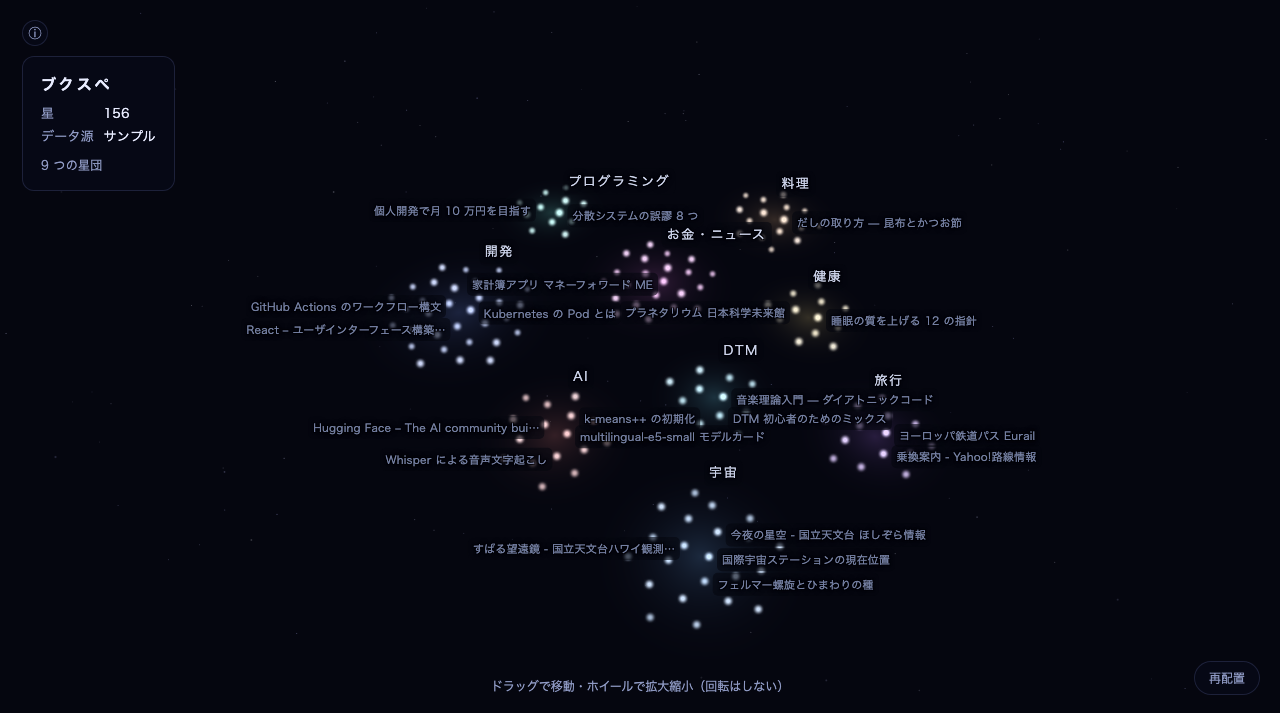
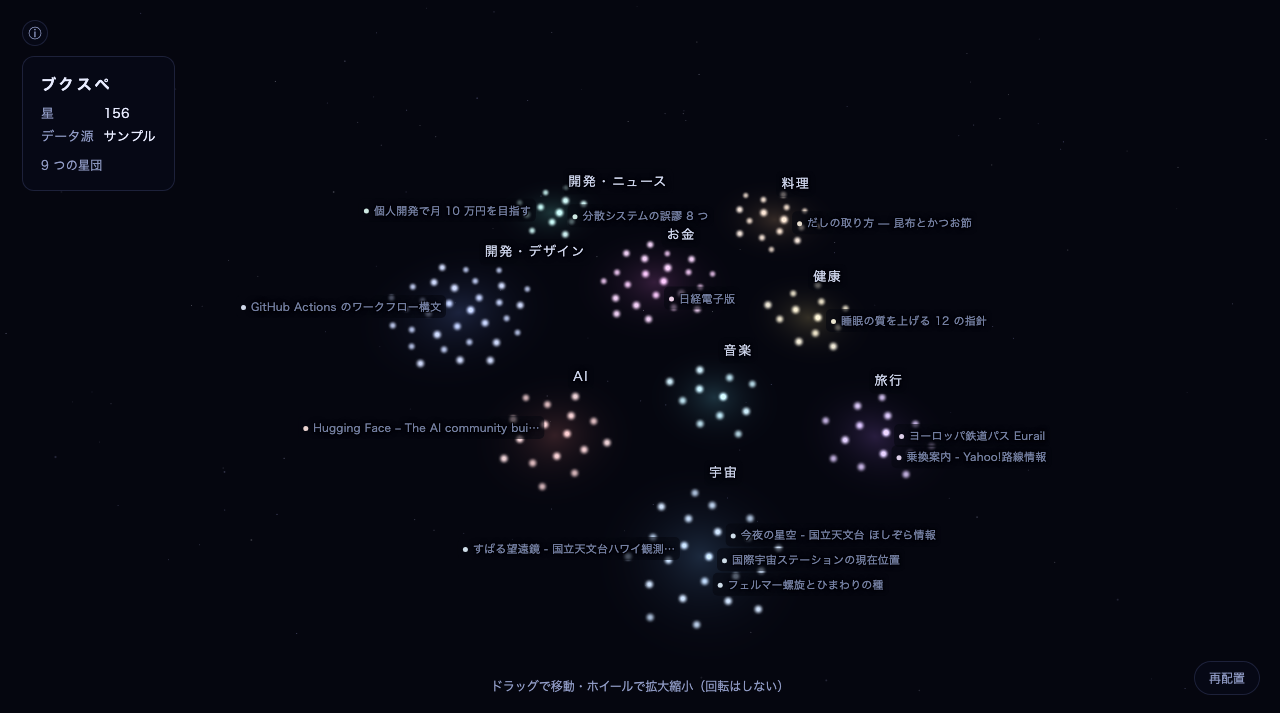
feat(m2): place titles outward and use broad cluster names

diff --git a/src/ui/labels.ts b/src/ui/labels.ts
@@ -9,9 +9,13 @@ export type PlacedLabel = {
   kind: "cluster" | "star";
   /** 小さいほど大事。重なったときはこの順に残す */
   priority: number;
+  cluster?: number;
+  side?: "left" | "right";
+  color?: string;
 };
 
 export type Box = { l: number; t: number; r: number; b: number };
+export type ScreenCircle = { cluster: number; sx: number; sy: number; rx: number; ry: number };
 
 /** 同時に出すラベルの上限（SPEC 7 章）。 */
 const MAX_LABELS = 60;
@@ -21,6 +25,7 @@ const FONT = { cluster: 13, star: 11 } as const;
 const OFFSET_X = 8;
 /** 下地の左右の余白（CSS の padding と合わせる）。 */
 const PADDING_X = 5;
+const DOT_WIDTH = 10;
 
 /** 中距離で省略する長さ（全角を 1、半角を 0.5 として数える）。 */
 const MID_WIDTH = 18;
@@ -38,9 +43,16 @@ export function truncate(text: string, limit: number): string {
 
 const overlaps = (a: Box, b: Box) => a.l < b.r && b.l < a.r && a.t < b.b && b.t < a.b;
 
+/** 長方形と画面に投影した星団の楕円が交わるか。 */
+export function entersCircle(box: Box, circle: ScreenCircle): boolean {
+  const x = Math.max(box.l, Math.min(circle.sx, box.r));
+  const y = Math.max(box.t, Math.min(circle.sy, box.b));
+  return ((x - circle.sx) / circle.rx) ** 2 + ((y - circle.sy) / circle.ry) ** 2 < 1;
+}
+
 /**
  * タイトルは HTML の重ね表示で描く（SPEC 7 章）。
- * 星の右横に左揃えで置き、他のラベルにも他の星にも重ならないものだけ残す。
+ * 星団中心から外へ向けてタイトルを置き、他のタイトルと重なるものを間引く。
  */
 export class LabelLayer {
   private readonly pool: HTMLDivElement[] = [];
@@ -53,7 +65,7 @@ export class LabelLayer {
     container.addEventListener("mouseout", this.onOut);
   }
 
-  render(items: PlacedLabel[], tier: ZoomTier): number {
+  render(items: PlacedLabel[], tier: ZoomTier, circles: ScreenCircle[] = []): number {
     const labelBoxes: Box[] = [];
     const shown: { item: PlacedLabel; text: string; box: Box }[] = [];
 
@@ -67,23 +79,20 @@ export class LabelLayer {
           : full;
 
       const size = FONT[item.kind];
-      const w = this.textWidth(shortened, size) + PADDING_X * 2;
+      const w = this.textWidth(shortened, size) + PADDING_X * 2 + (item.kind === "star" ? DOT_WIDTH : 0);
       const h = size + 6;
       const t = item.sy - h / 2;
 
       // 星団名は遠くでは星雲の中心に重ねる
-      const candidates: Box[] =
+      const box: Box =
         item.kind === "cluster" && tier === "far"
-          ? [{ l: item.sx - w / 2, t, r: item.sx + w / 2, b: t + h }]
-          : [
-              // 右横に置けなければ左横へ
-              { l: item.sx + OFFSET_X, t, r: item.sx + OFFSET_X + w, b: t + h },
-              { l: item.sx - OFFSET_X - w, t, r: item.sx - OFFSET_X, b: t + h },
-            ];
+          ? { l: item.sx - w / 2, t, r: item.sx + w / 2, b: t + h }
+          : item.kind === "star" && item.side === "left"
+            ? { l: item.sx - OFFSET_X - w, t, r: item.sx - OFFSET_X, b: t + h }
+            : { l: item.sx + OFFSET_X, t, r: item.sx + OFFSET_X + w, b: t + h };
 
-      // 重なりを禁じるのはタイトル同士だけ。星の上に重なるのは下地で読ませる
-      const box = candidates.find((c) => !labelBoxes.some((p) => overlaps(p, c)));
-      if (!box) continue;
+      if (labelBoxes.some((p) => overlaps(p, box))) continue;
+      if (item.kind === "star" && circles.some((c) => c.cluster !== item.cluster && entersCircle(box, c))) continue;
 
       labelBoxes.push(box);
       shown.push({ item, text: shortened, box });
@@ -109,6 +118,9 @@ export class LabelLayer {
       el.textContent = text;
       el.className = `label label-${item.kind}`;
       el.dataset.key = item.key;
+      el.dataset.cluster = item.cluster == null ? "" : String(item.cluster);
+      el.dataset.side = item.side ?? "";
+      el.style.setProperty("--cluster-color", item.color ?? "transparent");
       // 省略したものだけ、マウスを乗せたら全文を出す
       el.style.pointerEvents = text === this.fullText.get(item.key) ? "none" : "auto";
       el.style.transform = `translate(${box.l.toFixed(1)}px, ${box.t.toFixed(1)}px)`;

diff --git a/src/layout/names.ts b/src/layout/names.ts
@@ -1,11 +1,11 @@
 import type { BookmarkItem } from "../bookmarks/types";
 import { domainOf } from "../bookmarks/types";
 import { DOMAIN_HINTS, hintsFor } from "../embed/domain-hints";
+import { BROAD_CATEGORIES, TOPIC_CATEGORY, broadCategory } from "../embed/topic-categories";
 
-/** 辞書に出てくる分野語の一覧。タイトルの中にこれが入っていれば数える。 */
-const HINT_VOCABULARY = [
-  ...new Set(Object.values(DOMAIN_HINTS).flatMap((v) => v.split(/\s+/).filter(Boolean))),
-].sort((a, b) => b.length - a.length || (a < b ? -1 : 1));
+for (const word of new Set(Object.values(DOMAIN_HINTS).flatMap((v) => v.split(/\s+/).filter(Boolean)))) {
+  if (!TOPIC_CATEGORY.has(word)) throw new Error(`分野語に大分類がない: ${word}`);
+}
 
 /** 代表の数（螺旋の内側）。この中で分野語が揃えば、それを星団の名前にする。 */
 const LEADERS = 4;
@@ -33,29 +33,30 @@ function tally(values: string[]): Tally[] {
 }
 
 const folderTally = (members: BookmarkItem[]): Tally[] =>
-  tally(members.map((m) => m.folderPath.at(-1) ?? "").filter((f) => !IGNORED_FOLDERS.has(f)));
+  tally(members.map((m) => m.folderPath.at(-1) ?? "")
+    .filter((f) => !IGNORED_FOLDERS.has(f) && BROAD_CATEGORIES.includes(f)));
 
-/** そのブックマークが持つ分野語。ドメイン辞書と、タイトルに含まれる語の両方から。 */
+/** ドメインの分野語を大分類に直し、タイトルからは大分類の語だけを拾う。 */
 function hintsOf(item: BookmarkItem): string[] {
-  const fromDomain = hintsFor(domainOf(item.url)).split(/\s+/).filter(Boolean);
-  const fromTitle = HINT_VOCABULARY.filter((w) => w.length >= 2 && item.title.includes(w));
+  const fromDomain = hintsFor(domainOf(item.url)).split(/\s+/).map(broadCategory).filter((w): w is string => !!w);
+  const fromTitle = BROAD_CATEGORIES.filter((w) => item.title.includes(w));
   return [...new Set([...fromDomain, ...fromTitle])];
 }
 
-/** 分野の語の集計。フォルダで決まらないときに使う。 */
+/** 大分類の集計。フォルダで決まらないときに使う。 */
 const hintTally = (members: BookmarkItem[]): Tally[] => tally(members.flatMap(hintsOf));
 
 /**
  * 星団の名前（SPEC 7 章 ＋ 調整）。
  * 1 位のフォルダが半分以上ならそれ。半分未満で 2 位が 1 位の 6 割以上なら「1 位・2 位」。
- * フォルダで決まらないときは分野の語、それも無ければドメイン、最後は「無名の星団 N」。
- * 同じ名前が残ったら、2 番目に多い分野の語を足して区別する。
+ * フォルダで決まらないときは大分類、最後は「無名の星団 N」。
+ * 同じ名前が残ったら、別の大分類を足して区別する。
  */
 export function clusterNames(groups: BookmarkItem[][]): string[] {
   const names = groups.map((members, index) => {
     if (members.length === 0) return `無名の星団 ${index + 1}`;
 
-    // 代表 4 件のうち 2 件以上が同じ分野語を持つなら、フォルダの多数決より優先する
+    // 代表 4 件のうち 2 件以上が同じ大分類を持つなら、フォルダの多数決より優先する
     const leaders = members.slice(0, LEADERS);
     const shared = tally(leaders.flatMap(hintsOf)).filter((h) => h.n >= LEADER_AGREE);
     if (shared[0]) return shared[0].key;
@@ -72,9 +73,6 @@ export function clusterNames(groups: BookmarkItem[][]): string[] {
 
     const hint = hintTally(members)[0];
     if (hint) return hint.key;
-
-    const domain = tally(members.map((m) => domainOf(m.url)))[0];
-    if (domain) return domain.key;
 
     return `無名の星団 ${index + 1}`;
   });

diff --git a/src/render/scene.ts b/src/render/scene.ts
@@ -2,7 +2,7 @@ import * as THREE from "three";
 import { MapControls } from "three/examples/jsm/controls/MapControls.js";
 import type { Layout } from "../layout";
 import { layoutExtent } from "../layout";
-import { LabelLayer, type PlacedLabel, type ZoomTier } from "../ui/labels";
+import { LabelLayer, type PlacedLabel, type ScreenCircle, type ZoomTier } from "../ui/labels";
 import { Nebulae } from "./nebula";
 import { StarField, clusterColor, createBackdrop, type RenderStar } from "./stars";
 
@@ -23,7 +23,7 @@ function boundsOf(stars: { x: number; y: number }[], fallback: number) {
 
 export type LabelSource = {
   clusters: { index: number; name: string; x: number; y: number; radius: number; count: number }[];
-  stars: { id: string; title: string; x: number; y: number; rank: number }[];
+  stars: { id: string; title: string; x: number; y: number; cluster: number; rank: number }[];
 };
 
 export class SpaceView {
@@ -44,6 +44,7 @@ export class SpaceView {
   private fitDistance = 90;
   private labelSource: LabelSource = { clusters: [], stars: [] };
   private labelTimer = 0;
+  private screenCircles: ScreenCircle[] = [];
   private tilt = TILT;
   private tiltTarget = TILT;
 
@@ -111,6 +112,11 @@ export class SpaceView {
   setZoomTier(tier: ZoomTier): void {
     const factor = tier === "far" ? 1.9 : tier === "mid" ? 0.85 : 0.3;
     this.setDistance(this.fitDistance * factor);
+  }
+
+  /** check:ext が画面上のタイトルと星団の円を照合するための投影値。 */
+  labelGeometry(): ScreenCircle[] {
+    return this.screenCircles;
   }
 
   start(): void {
@@ -211,6 +217,23 @@ export class SpaceView {
     };
 
     const items: PlacedLabel[] = [];
+    const circles: ScreenCircle[] = [];
+    for (const c of this.labelSource.clusters) {
+      if (c.count === 0) continue;
+      const center = project(c.x, c.y);
+      if (!center) continue;
+      let rx = 0, ry = 0;
+      for (let i = 0; i < 32; i++) {
+        const angle = i * Math.PI / 16;
+        const edge = project(c.x + Math.cos(angle) * c.radius, c.y + Math.sin(angle) * c.radius);
+        if (edge) {
+          rx = Math.max(rx, Math.abs(edge.sx - center.sx));
+          ry = Math.max(ry, Math.abs(edge.sy - center.sy));
+        }
+      }
+      if (rx > 0 && ry > 0) circles.push({ cluster: c.index, ...center, rx, ry });
+    }
+    this.screenCircles = circles;
     for (const c of this.labelSource.clusters) {
       if (c.count === 0) continue;
       // 遠くでは星雲の中心に重ねる。寄ったら円の上端の少し上へ
@@ -232,11 +255,16 @@ export class SpaceView {
         if (s.rank >= limit) continue;
         const at = project(s.x, s.y);
         if (!at) continue;
-        items.push({ key: s.id, text: s.title, sx: at.sx, sy: at.sy, kind: "star", priority: s.rank });
+        const own = this.labelSource.clusters.find((c) => c.index === s.cluster);
+        items.push({
+          key: s.id, text: s.title, sx: at.sx, sy: at.sy, kind: "star", priority: s.rank,
+          cluster: s.cluster, side: !own || s.x >= own.x ? "right" : "left",
+          color: clusterColor(s.cluster).getStyle(),
+        });
       }
     }
 
-    this.labels.render(items, tier);
+    this.labels.render(items, tier, circles);
   }
 
   private readonly resize = (): void => {

diff --git a/src/embed/topic-categories.ts b/src/embed/topic-categories.ts
@@ -1,0 +1,33 @@
+/** 分野語から星団名に使う大分類への対応。埋め込み用の語はそのまま残す。 */
+const TERMS: Record<string, string> = {
+  開発: "3D API Android Apple CSS Chrome Go JavaScript Python React Rust SQL Svelte TypeScript Vue Web WebGL macOS インフラ エディタ キャッシュ コンテナ サーバー シェーダー セキュリティ ソフトウェア設計 ソースコード テクノロジー データベース ドキュメント ノートブック バージョン管理 パッケージ パッケージ管理 ビルドツール フレームワーク フロントエンド ブラウザ プログラミング プログラミング言語 リファレンス リポジトリ 推論 拡張機能 描画 正規表現 認証 通信 運用 開発 開発ツール 電子工作 小型計算機 性能 対応表 断片",
+  AI: "AI 人工知能 機械学習 深層学習 プロンプト モデル 生成 データ分析 統計",
+  デザイン: "UI アイコン アクセシビリティ アニメーション デザイン フォント 作品 配色 指針",
+  ニュース: "SNS ガジェット スタートアップ ニュース ビジネス ブックマーク ブログ 交流 写真 動画 報道 掲示板 短文投稿 視聴 記事 話題 百科事典 質問 回答 調べもの 解説 技術記事",
+  宇宙: "ロケット 天体 天文 宇宙 宇宙ステーション 打ち上げ 星空 星座 望遠鏡 観測",
+  科学: "研究 科学 科学館 論文 展示 学習",
+  料理: "グルメ レシピ 料理 製パン 製菓 調味料 調理器具 飲食店 香辛料",
+  旅行: "ヨーロッパ 乗換 交通 地図 場所 宿泊 旅行 切符 航空券 観光 鉄道",
+  音楽: "DTM ギター コード 配信 音楽 音楽制作 音楽理論 購入 素材",
+  お金: "お金 ふるさと納税 会計 価格比較 制度 家計簿 年金 投資 確定申告 税金 経済 行政 証券 金融",
+  健康: "ランニング 健康 労働 医療 献血 目 筋力トレーニング 運動",
+  暮らし: "カレンダー メモ モニターアーム 予報 予定 仕事 作業環境 保管 天気 家電 暮らし 翻訳 英語 言語 連絡",
+  買い物: "中古 個人売買 買い物 通販 キーボード 入力機器",
+  文書: "ファイル 文書 表計算",
+  対話: "チャット メール 対話",
+};
+
+export const TOPIC_CATEGORY = new Map<string, string>();
+for (const [category, words] of Object.entries(TERMS)) {
+  for (const word of words.split(" ")) {
+    if (TOPIC_CATEGORY.has(word)) throw new Error(`分野語の大分類が重複: ${word}`);
+    TOPIC_CATEGORY.set(word, category);
+  }
+}
+
+export const BROAD_CATEGORIES = [...new Set(Object.keys(TERMS))]
+  .sort((a, b) => b.length - a.length || a.localeCompare(b));
+
+export function broadCategory(word: string): string | undefined {
+  return TOPIC_CATEGORY.get(word);
+}

diff --git a/src/main.ts b/src/main.ts
@@ -12,6 +12,7 @@ import {
   type Layout,
 } from "./layout";
 import { provisionalLayout } from "./layout/provisional";
+import { clusterNames } from "./layout/names";
 import { toLabelSource, toRenderStars } from "./render/present";
 import { SpaceView } from "./render/scene";
 import { readMeta, writeMeta } from "./store/db";
@@ -105,7 +106,15 @@ async function placeStars(): Promise<void> {
     for (const item of added) {
       layout = addStar(layout, item.id, state.vectors.get(item.id) as Float32Array, state.mean);
     }
-    if (added.length > 0 || layout.stars.length !== stored.stars.length) {
+    // 命名規則が変わっても、保存済みの星の座標はそのまま使う。
+    const byId = new Map(state.items.map((item) => [item.id, item]));
+    const names = clusterNames(layout.clusters.map((c) => layout!.stars
+      .filter((s) => s.cluster === c.index)
+      .sort((a, b) => a.rank - b.rank)
+      .flatMap((s) => { const item = byId.get(s.id); return item ? [item] : []; })));
+    const namesChanged = layout.clusters.some((c, i) => c.name !== names[i]);
+    if (namesChanged) layout = { ...layout, clusters: layout.clusters.map((c, i) => ({ ...c, name: names[i] })) };
+    if (namesChanged || added.length > 0 || layout.stars.length !== stored.stars.length) {
       await writeMeta(META_LAYOUT, layout);
     }
   }
@@ -297,6 +306,7 @@ let saved: { items: BookmarkItem[]; vectors: Map<string, Float32Array>; layout: 
   },
 
   setZoomTier: (tier: ZoomTier) => view?.setZoomTier(tier),
+  labelGeometry: () => view?.labelGeometry() ?? [],
   setTopDown: (on: boolean) => view?.setTopDown(on),
   relayout,
 

diff --git a/index.html b/index.html
@@ -125,6 +125,16 @@
         letter-spacing: 0.02em;
         color: rgba(178, 195, 245, 0.66);
       }
+      .label-star::before {
+        content: "";
+        display: inline-block;
+        width: 5px;
+        height: 5px;
+        margin-right: 5px;
+        border-radius: 50%;
+        background: var(--cluster-color);
+        vertical-align: 1px;
+      }
 
       #relayout {
         position: fixed;

diff --git a/src/render/present.ts b/src/render/present.ts
@@ -27,7 +27,7 @@ export function toLabelSource(layout: Layout, byId: Map<string, BookmarkItem>): 
     })),
     stars: layout.stars.flatMap((s) => {
       const item = byId.get(s.id);
-      return item ? [{ id: s.id, title: item.title, x: s.x, y: s.y, rank: s.rank }] : [];
+      return item ? [{ id: s.id, title: item.title, x: s.x, y: s.y, cluster: s.cluster, rank: s.rank }] : [];
     }),
   };
 }

diff --git a/docs/HANDOFF.md b/docs/HANDOFF.md
@@ -19,8 +19,8 @@
 
 ### M2 で残した課題（M3 に入る前に判断が要るもの）
 
-- 星団「DTM」の名前が狭い。代表 4 件のうち 2 件が分野語「DTM」を持ったため勝った。
-  細かすぎる分野語を辞書から外すか、フォルダ名と同点なら広い方を選ぶかは未決。
+- **解決済み**：分野語を大分類に対応させ、命名には大分類だけを使う。「DTM」11 件は「音楽」になった。
+  埋め込みに使う元の分野語は変えず、保存済みの星の座標も変えずに名前だけ更新する。
 - 星団の粒度の**分割**規則（件数が中央値の 2 倍超かつ締まりが中央値未満）は、
   サンプルでは一度も発動していない。**統合**（5 件未満）だけが効いている。
 - 「料理」「お金・ニュース」など寄せ集めの星団が残る。SPEC どおりの `k = round(sqrt(N/2))` の結果。
@@ -74,7 +74,7 @@
 - **代表（螺旋の内側）の順番** ＝
   `自分の星団の中心との類似度 − 2 番目に近い星団の中心との類似度 − 0.3 × 汎用度`。
   さらに、タイトルが 3 文字以下のものと汎用度が 1.5 を超えるものは候補から外す（「X」対策）。
-- **星団の名前**：①代表 4 件のうち 2 件以上が同じ分野語（ドメイン辞書＋タイトルに含まれる語）を
+- **星団の名前**：①代表 4 件のうち 2 件以上が同じ大分類（ドメイン辞書の分野語を変換＋タイトルに含まれる大分類の語）を
   持てばそれ → ②フォルダの多数決（1 位が半分以上ならそれ、半分未満で 2 位が 1 位の 6 割以上なら
   「1 位・2 位」、3 割以上なら 1 位） → ③分野語 → ④ドメイン → ⑤「無名の星団 N」。
   「あとで読む」「ブックマーク バー」などは候補から外す（`IGNORED_FOLDERS`）。
@@ -95,10 +95,14 @@
 - カメラは移動と拡大縮小のみ（`MapControls` の `enableRotate = false`）。静止時 40 度、
   `setTopDown(true)` で約 0.6 秒で真上。初期位置は外接矩形の四隅を実際に投影して、
   地図全体が画面の約 80% に収まるまで詰める。
-- **タイトルは星の右横 8px に左揃え、縦は星の中心。右が塞がっていたら左横。**
+- **タイトルは星団中心より右側の星なら右横、左側なら左横に 8px 離して置く。**
+  左右は空き具合で切り替えない。他のタイトルと重なれば間引き、左端に星団色の小さな点を付ける。
+  隣の星団の円に入るタイトルも間引く。
   重なりを禁じるのは**タイトル同士だけ**で、星の上に重なるのは許し、半透明の暗い下地で読ませる。
   中距離は全角 18 文字で省略（マウスを乗せると全文）、近距離は全文。同時表示は 60 件まで。
 - 遠距離では星団名を星雲の中心に重ね、中距離以降は円の上端の少し上に置く。
+- 分野語の大分類は `src/embed/topic-categories.ts` に全語の対応を置く。星団名の分野語と
+  タイトル中の語は大分類だけを数える。既存の配置を読み出す際も名前だけ再判定し、座標は保存値を維持する。
 
 ### 守るべき制約（破ると審査に落ちる）
 
@@ -167,6 +171,8 @@ npm run icons      # アイコン PNG を作り直す
 16. 20 / 150 / 2000 件で配置が終わり、2000 件でも 60 コマ/秒を保つ
 17. 再読み込みで埋め込みが揃っていて、外部から取り直さない
 18. エラー・警告が出ない（swiftshader の性能警告だけ除く）
+19. 音楽フォルダを中心とする星団が「音楽」と名付く（旧名「DTM」）
+20. 初期画面のタイトルが隣の星団の投影円に入らない（156 件で表示 13 件、侵入 0 件）
 
 そのうえで `docs/screens/` に initial・far・mid・near のスクリーンショットと
 `clusters.json`（星団の名前・件数・フォルダ内訳）を書き出す。
@@ -188,6 +194,7 @@ npm run icons      # アイコン PNG を作り直す
 | `src/embed/ensure.ts` | 足りない分だけ埋め込む。進み具合を流す |
 | `src/embed/text.ts` | 入力文の組み立てとハッシュ |
 | `src/embed/domain-hints.ts` | ドメイン → 分野語の辞書（星団の名前にも使う） |
+| `src/embed/topic-categories.ts` | 分野語から星団名に使う大分類への対応 |
 | `src/store/db.ts` | IndexedDB（`embeddings` と `meta`）。`meta` に `mean-vector` / `generality` / `layout` |
 | `src/layout/index.ts` | 配置の本体。`computeLayout` / `addStar` / `dropMissing` と各種の係数 |
 | `src/layout/kmeans.ts` `pca.ts` `pack.ts` `spiral.ts` `refine.ts` | 配置の部品。すべて決定的 |
